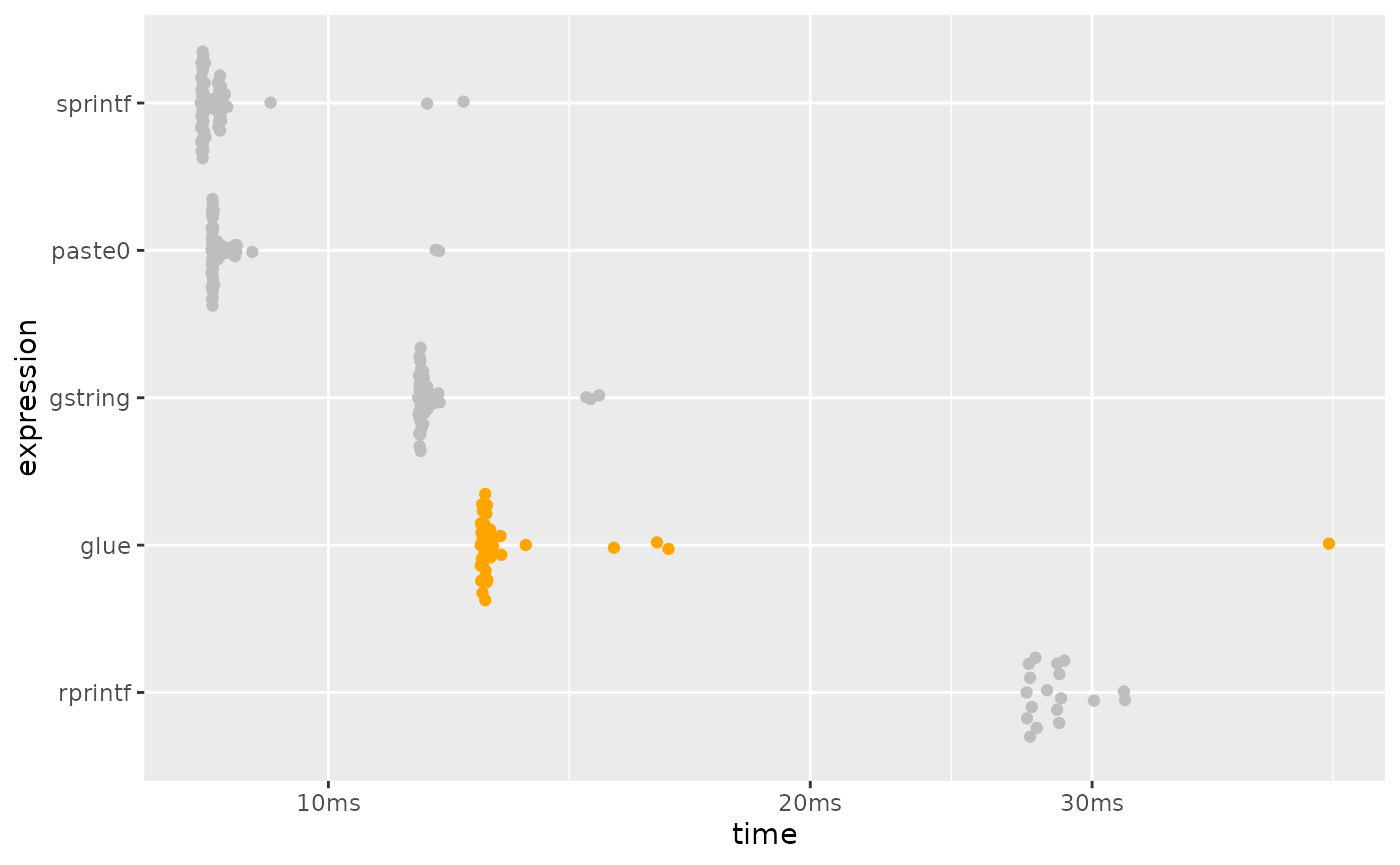
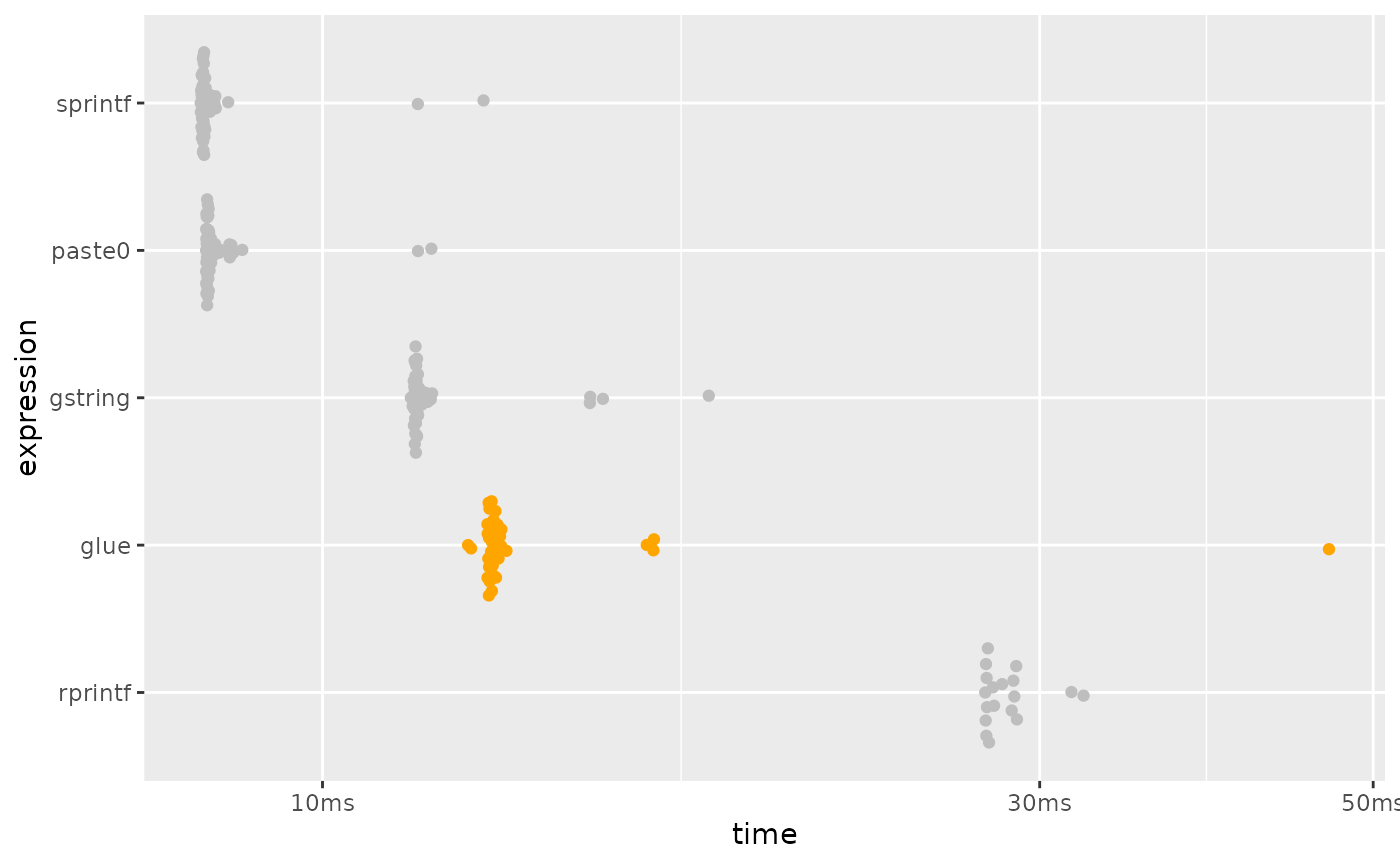
Deploying to gh-pages from @ tidyverse/glue@45d1cfc482882589e1ef7697450a976c70eb1f27 🚀

diff --git a/dev/articles/speed.html b/dev/articles/speed.html
@@ -156,11 +156,11 @@ this benchmark, but is now formally marked as “superseded”, in favor of
 <span><span class="co">#&gt; <span style="color: #949494;"># A tibble: 5 × 6</span></span></span>
 <span><span class="co">#&gt;   expression      min   median `itr/sec` mem_alloc `gc/sec`</span></span>
 <span><span class="co">#&gt;   <span style="color: #949494; font-style: italic;">&lt;bch:expr&gt;</span> <span style="color: #949494; font-style: italic;">&lt;bch:tm&gt;</span> <span style="color: #949494; font-style: italic;">&lt;bch:tm&gt;</span>     <span style="color: #949494; font-style: italic;">&lt;dbl&gt;</span> <span style="color: #949494; font-style: italic;">&lt;bch:byt&gt;</span>    <span style="color: #949494; font-style: italic;">&lt;dbl&gt;</span></span></span>
-<span><span class="co">#&gt; <span style="color: #BCBCBC;">1</span> sprintf    740.98ns 781.03ns  1<span style="text-decoration: underline;">193</span>344.        0B     0   </span></span>
-<span><span class="co">#&gt; <span style="color: #BCBCBC;">2</span> paste0       1.39µs   1.51µs   <span style="text-decoration: underline;">639</span>072.        0B     0   </span></span>
-<span><span class="co">#&gt; <span style="color: #BCBCBC;">3</span> glue         94.3µs   99.9µs     <span style="text-decoration: underline;">9</span>672.  141.72KB     8.20</span></span>
-<span><span class="co">#&gt; <span style="color: #BCBCBC;">4</span> gstring    216.65µs 227.06µs     <span style="text-decoration: underline;">4</span>275.    2.43MB     6.17</span></span>
-<span><span class="co">#&gt; <span style="color: #BCBCBC;">5</span> rprintf     275.6µs 285.17µs     <span style="text-decoration: underline;">3</span>427.  504.06KB     4.05</span></span>
+<span><span class="co">#&gt; <span style="color: #BCBCBC;">1</span> sprintf    731.09ns 772.07ns  1<span style="text-decoration: underline;">190</span>075.        0B     0   </span></span>
+<span><span class="co">#&gt; <span style="color: #BCBCBC;">2</span> paste0       1.41µs   1.54µs   <span style="text-decoration: underline;">614</span>898.        0B     0   </span></span>
+<span><span class="co">#&gt; <span style="color: #BCBCBC;">3</span> glue        94.41µs   99.4µs     <span style="text-decoration: underline;">9</span>667.  141.72KB     8.22</span></span>
+<span><span class="co">#&gt; <span style="color: #BCBCBC;">4</span> gstring    216.37µs 228.46µs     <span style="text-decoration: underline;">4</span>238.    2.43MB     6.17</span></span>
+<span><span class="co">#&gt; <span style="color: #BCBCBC;">5</span> rprintf    275.84µs 287.28µs     <span style="text-decoration: underline;">3</span>388.  504.06KB     2.01</span></span>
 <span></span>
 <span><span class="co"># plotting function defined in a hidden chunk</span></span>
 <span><span class="fu">plot_comparison</span><span class="op">(</span><span class="va">simple</span><span class="op">)</span></span></code></pre></div>
@@ -203,11 +203,11 @@ performance is much closer to that of <code><a href="https://rdrr.io/r/base/past
 <span><span class="co">#&gt; <span style="color: #949494;"># A tibble: 5 × 6</span></span></span>
 <span><span class="co">#&gt;   expression      min   median `itr/sec` mem_alloc `gc/sec`</span></span>
 <span><span class="co">#&gt;   <span style="color: #949494; font-style: italic;">&lt;bch:expr&gt;</span> <span style="color: #949494; font-style: italic;">&lt;bch:tm&gt;</span> <span style="color: #949494; font-style: italic;">&lt;bch:tm&gt;</span>     <span style="color: #949494; font-style: italic;">&lt;dbl&gt;</span> <span style="color: #949494; font-style: italic;">&lt;bch:byt&gt;</span>    <span style="color: #949494; font-style: italic;">&lt;dbl&gt;</span></span></span>
-<span><span class="co">#&gt; <span style="color: #BCBCBC;">1</span> sprintf      8.32ms   8.37ms     118.    781.3KB     4.16</span></span>
-<span><span class="co">#&gt; <span style="color: #BCBCBC;">2</span> paste0       8.45ms   8.47ms     117.    781.3KB     4.19</span></span>
-<span><span class="co">#&gt; <span style="color: #BCBCBC;">3</span> gstring     11.38ms  11.44ms      87.2    1.53MB     6.54</span></span>
-<span><span class="co">#&gt; <span style="color: #BCBCBC;">4</span> glue        12.45ms  12.53ms      79.5    2.29MB     9.64</span></span>
-<span><span class="co">#&gt; <span style="color: #BCBCBC;">5</span> rprintf      27.3ms  27.91ms      35.6    3.05MB     4.45</span></span>
+<span><span class="co">#&gt; <span style="color: #BCBCBC;">1</span> sprintf       8.3ms   8.34ms     120.    781.3KB     4.20</span></span>
+<span><span class="co">#&gt; <span style="color: #BCBCBC;">2</span> paste0       8.37ms    8.4ms     118.    781.3KB     4.15</span></span>
+<span><span class="co">#&gt; <span style="color: #BCBCBC;">3</span> gstring     11.45ms  11.55ms      85.2    1.53MB     6.39</span></span>
+<span><span class="co">#&gt; <span style="color: #BCBCBC;">4</span> glue         12.5ms  12.96ms      77.1    2.29MB     9.64</span></span>
+<span><span class="co">#&gt; <span style="color: #BCBCBC;">5</span> rprintf      27.6ms  27.84ms      35.6    3.05MB     4.45</span></span>
 <span></span>
 <span><span class="co"># plotting function defined in a hidden chunk</span></span>
 <span><span class="fu">plot_comparison</span><span class="op">(</span><span class="va">vectorized</span><span class="op">)</span></span></code></pre></div>

diff --git a/dev/articles/speed.md b/dev/articles/speed.md
@@ -65,11 +65,11 @@ simple |>
 #> # A tibble: 5 × 6
 #>   expression      min   median `itr/sec` mem_alloc `gc/sec`
 #>   <bch:expr> <bch:tm> <bch:tm>     <dbl> <bch:byt>    <dbl>
-#> 1 sprintf    740.98ns 781.03ns  1193344.        0B     0   
-#> 2 paste0       1.39µs   1.51µs   639072.        0B     0   
-#> 3 glue         94.3µs   99.9µs     9672.  141.72KB     8.20
-#> 4 gstring    216.65µs 227.06µs     4275.    2.43MB     6.17
-#> 5 rprintf     275.6µs 285.17µs     3427.  504.06KB     4.05
+#> 1 sprintf    731.09ns 772.07ns  1190075.        0B     0   
+#> 2 paste0       1.41µs   1.54µs   614898.        0B     0   
+#> 3 glue        94.41µs   99.4µs     9667.  141.72KB     8.22
+#> 4 gstring    216.37µs 228.46µs     4238.    2.43MB     6.17
+#> 5 rprintf    275.84µs 287.28µs     3388.  504.06KB     2.01
 
 # plotting function defined in a hidden chunk
 plot_comparison(simple)
@@ -125,11 +125,11 @@ vectorized |>
 #> # A tibble: 5 × 6
 #>   expression      min   median `itr/sec` mem_alloc `gc/sec`
 #>   <bch:expr> <bch:tm> <bch:tm>     <dbl> <bch:byt>    <dbl>
-#> 1 sprintf      8.32ms   8.37ms     118.    781.3KB     4.16
-#> 2 paste0       8.45ms   8.47ms     117.    781.3KB     4.19
-#> 3 gstring     11.38ms  11.44ms      87.2    1.53MB     6.54
-#> 4 glue        12.45ms  12.53ms      79.5    2.29MB     9.64
-#> 5 rprintf      27.3ms  27.91ms      35.6    3.05MB     4.45
+#> 1 sprintf       8.3ms   8.34ms     120.    781.3KB     4.20
+#> 2 paste0       8.37ms    8.4ms     118.    781.3KB     4.15
+#> 3 gstring     11.45ms  11.55ms      85.2    1.53MB     6.39
+#> 4 glue         12.5ms  12.96ms      77.1    2.29MB     9.64
+#> 5 rprintf      27.6ms  27.84ms      35.6    3.05MB     4.45
 
 # plotting function defined in a hidden chunk
 plot_comparison(vectorized)
